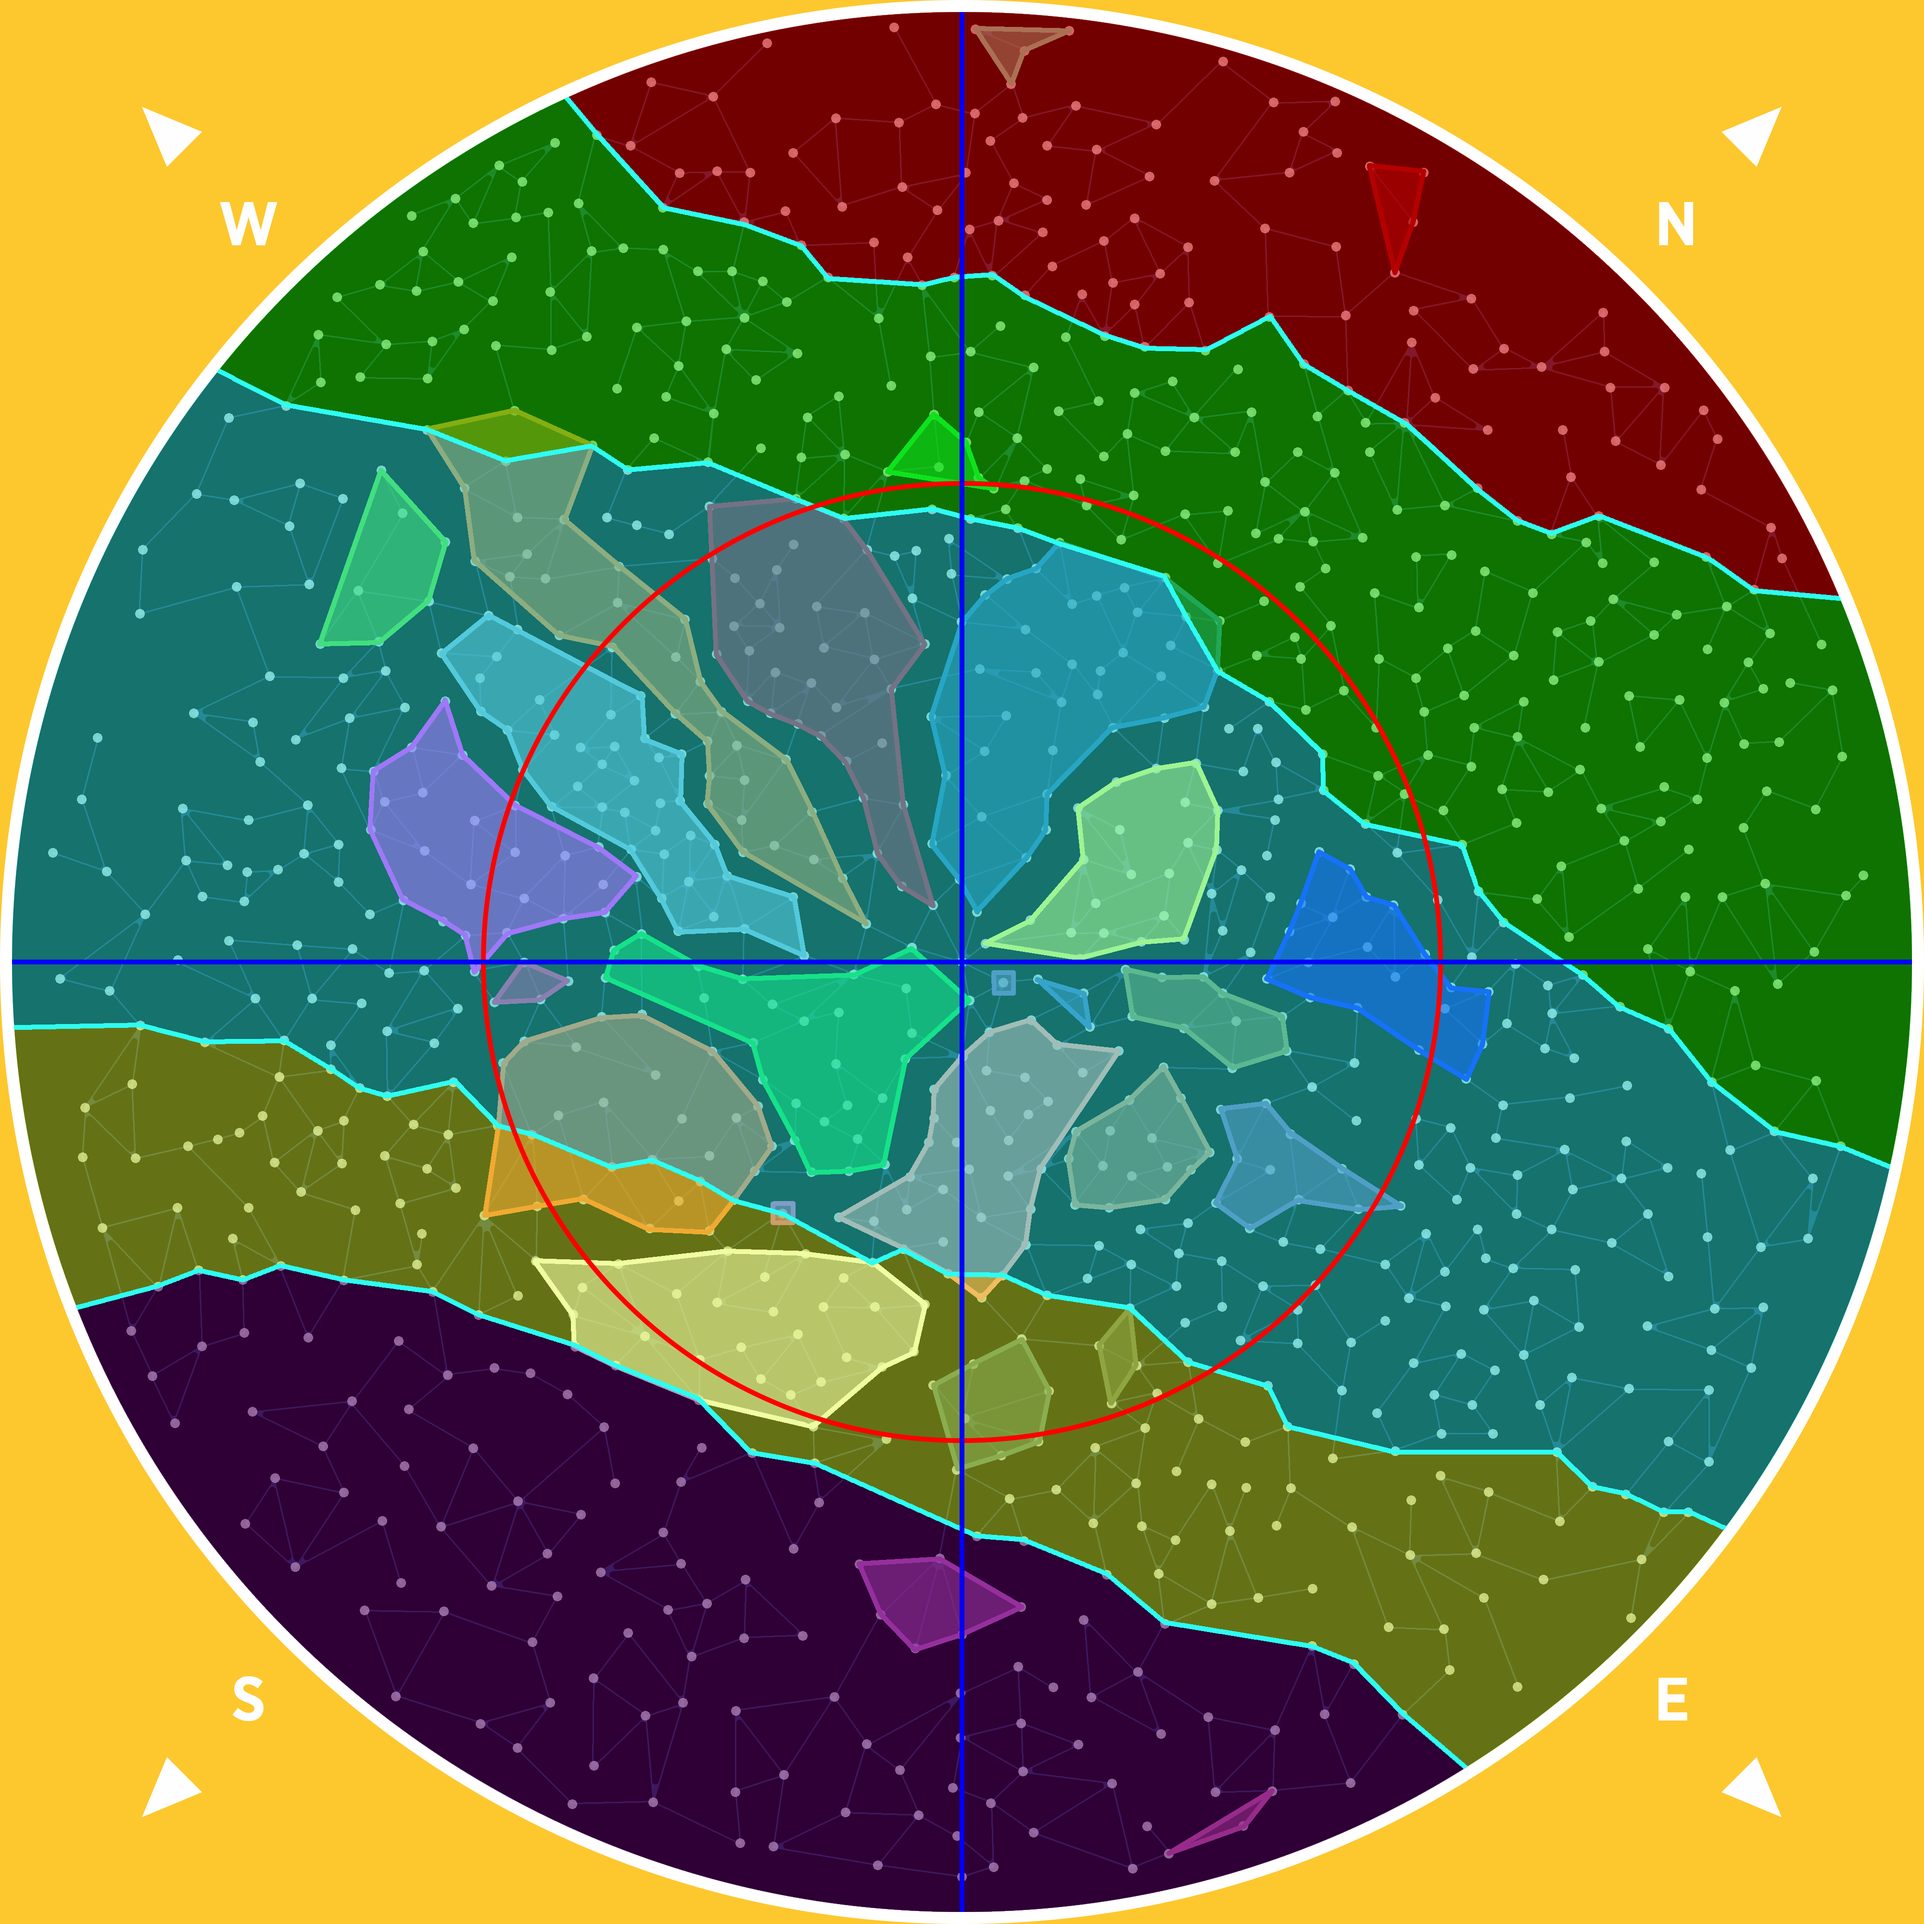
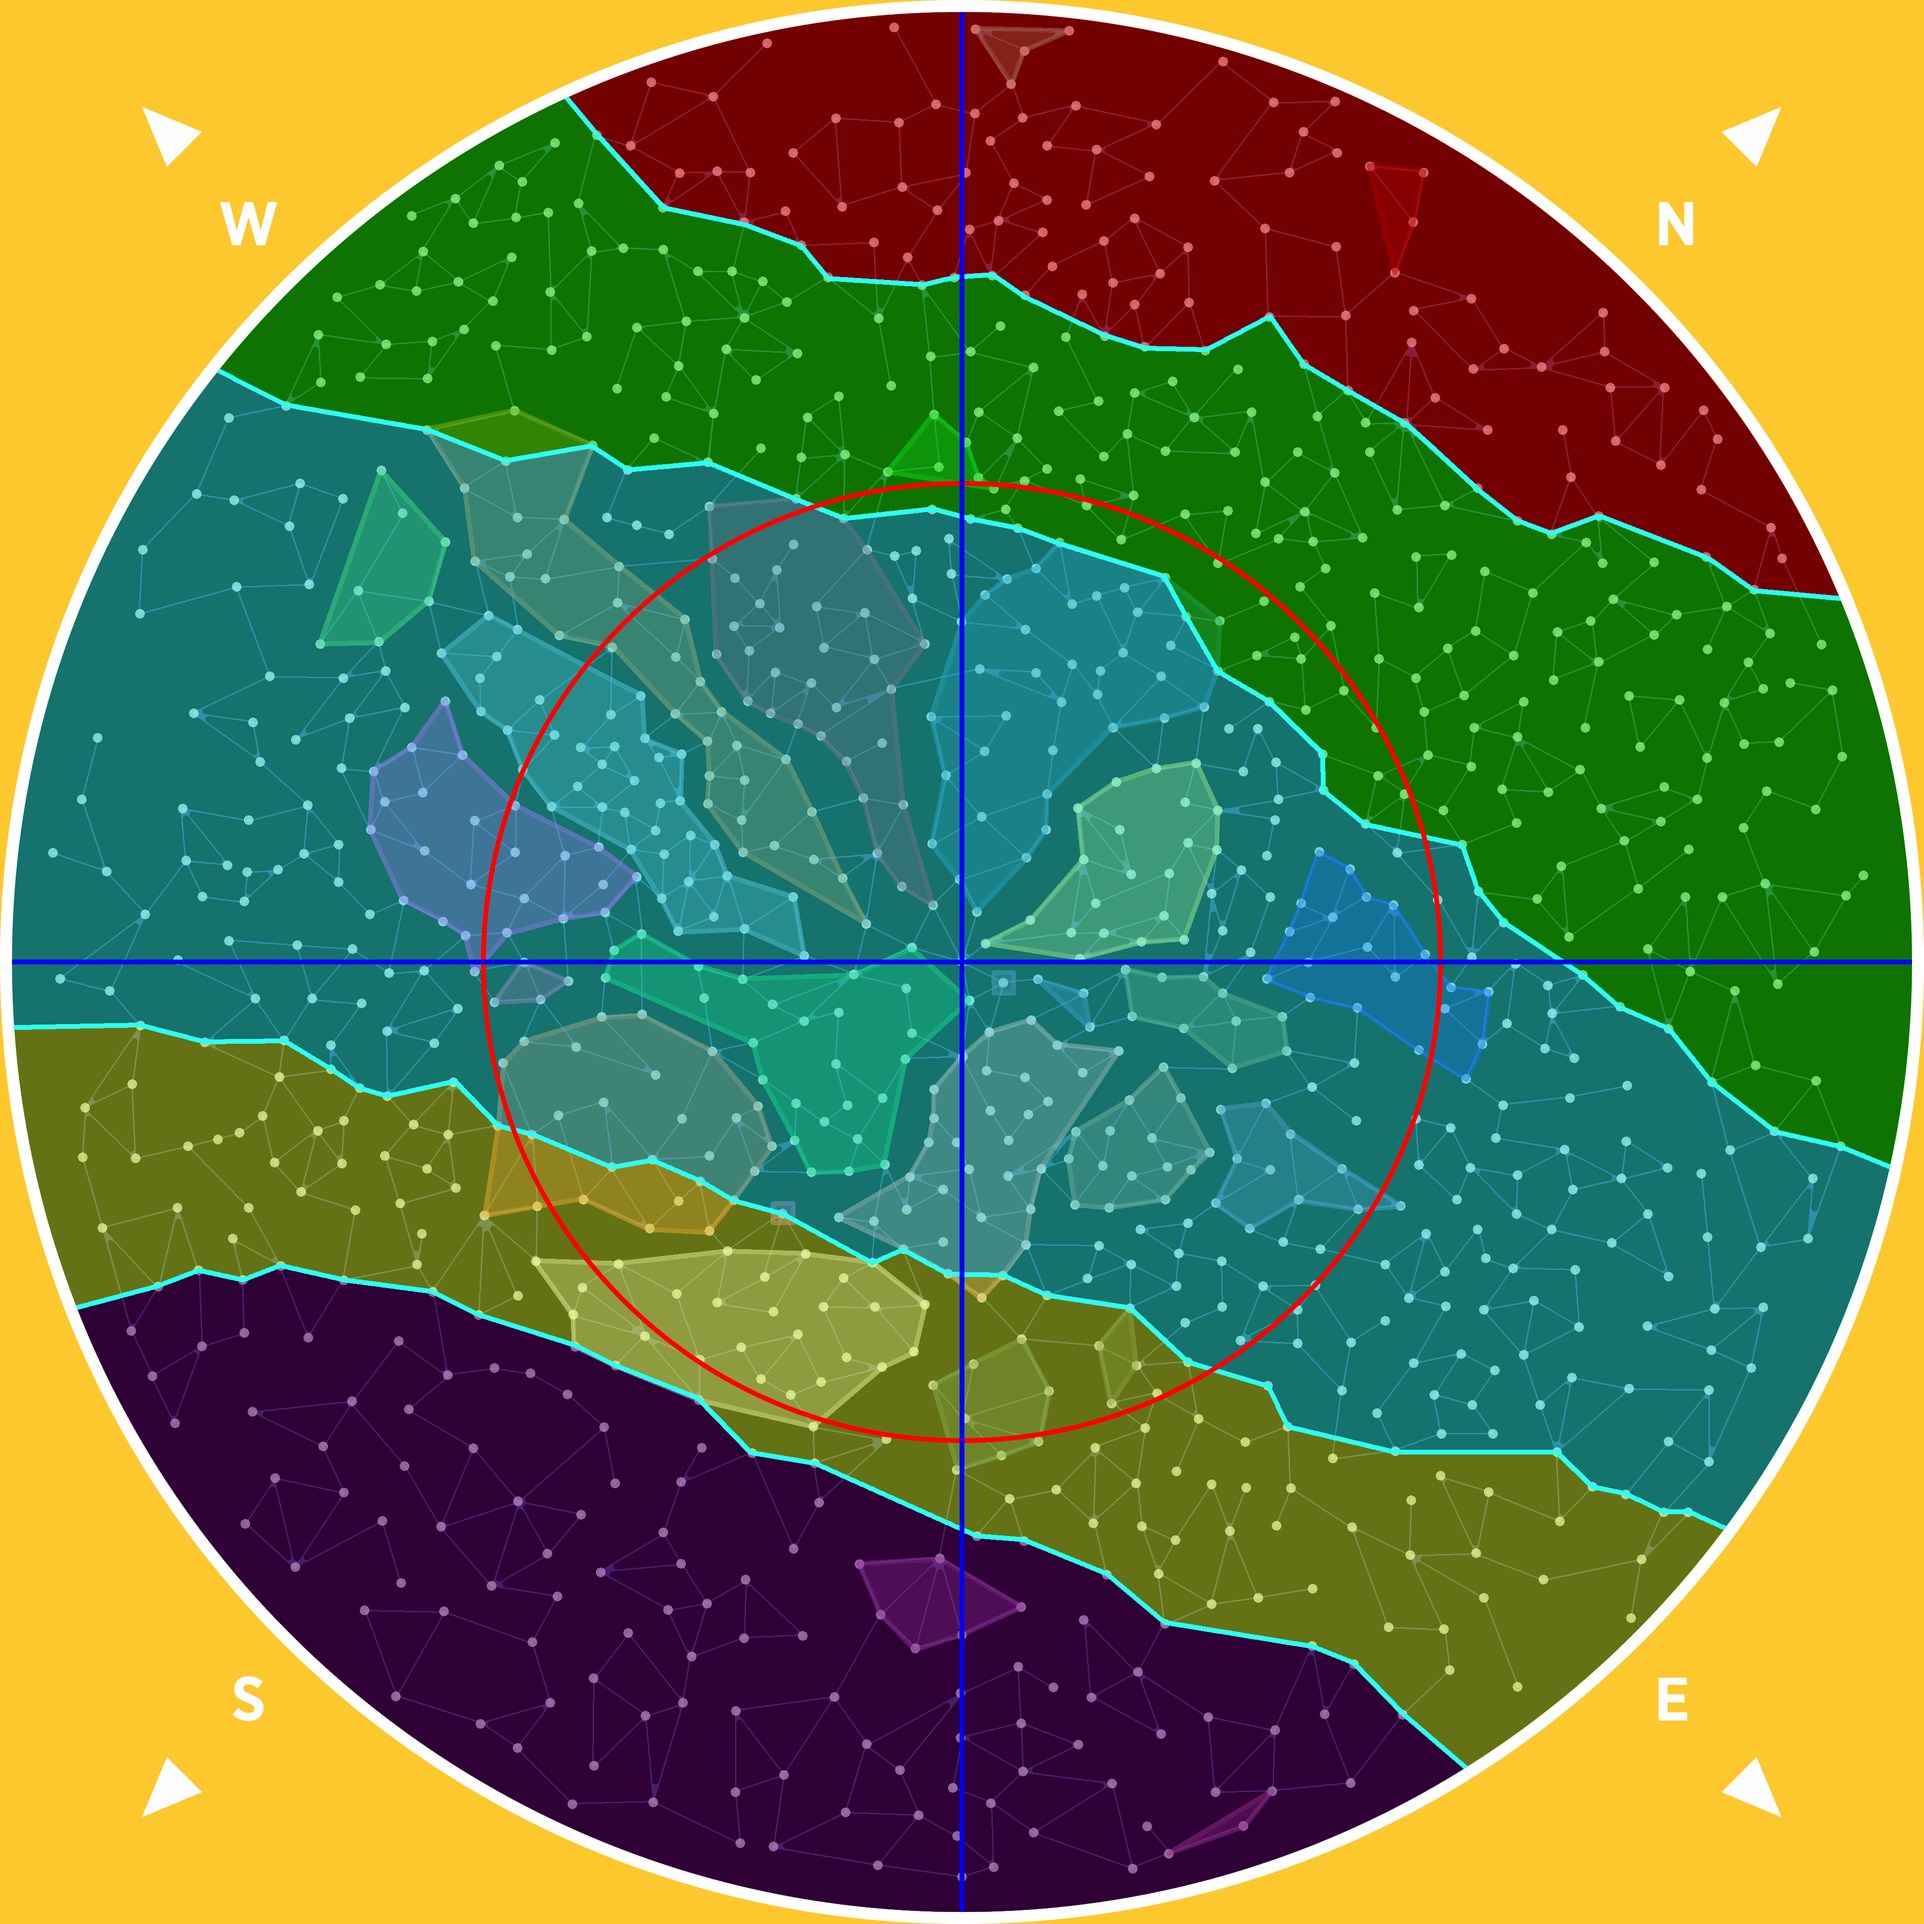
banter

diff --git a/index.html b/index.html
@@ -9,10 +9,10 @@
     window.dataLayer = window.dataLayer || [];
     function gtag(){dataLayer.push(arguments)};
     gtag('js', new Date());
-  
+
     gtag('config', 'UA-106544095-1');
   </script>
-      <link rel="prefetch" as="image" href="hyperlanegrid.png">
+      <link rel="prefetch" as="image" href="Region_Map.png">
     <link href="https://fonts.googleapis.com/css?family=Karla:400,400i,700,700i" rel="stylesheet">
     <link href="https://fonts.googleapis.com/css?family=Rubik:500,700" rel="stylesheet">
     <link rel="stylesheet" href="mapColor.css">
@@ -38,7 +38,7 @@
   	font-family:Rubik;
   	padding: 16px 18px;
 
-  
+
 }
 .buttonBehaviour {
   	overflow: hidden;
@@ -68,7 +68,7 @@
     float: left;
     font-size: 30px;
     color: #f5f5f5;
-      
+
     }
 .list {
   text-align: left;
@@ -114,10 +114,10 @@
     }
 }
 #regionheading {
-  font-size: 35px; 
+  font-size: 35px;
   color:#000000;
   font-weight: 900;
-  font-family: Rubik; 
+  font-family: Rubik;
   font-weight: 700;
 }
 
@@ -134,7 +134,7 @@
 
 </style>
 
-  
+
   <div id="EarthTab" class="tabcontent">
     <div id="earth">
       <img id="earthmap" src="Earth_Map.png" style="width: 100%;">
@@ -148,7 +148,7 @@
               <li><div class="box lopEarth"></div>Ivoria (LoP)</li>
               <li><div class="box pgfEarth"></div>Hellenica</li>
               <li><div class="box einheitEarth"></div>Tribal Artite</li>
-              <li><div class="box artcorp"></div>Artienia Corporation</li>             
+              <li><div class="box artcorp"></div>Artienia Corporation</li>
 
       </ul>
    </div>
@@ -164,7 +164,7 @@
       <h2 class="headings">OCEANIA</h2>
       <ul class="list">
               <li><div class="box wsEarth"></div>Suburbia-Purlieu</li>
-              <li><div class="box isariiEarth"></div>Isarii</li>              
+              <li><div class="box isariiEarth"></div>Isarii</li>
       </ul>
    </div>
    <div class="newHeadings">
@@ -210,32 +210,62 @@
     <div id="space">
       <img id="spaceMap">
     </div>
+
+    <div id="spaceSwitchButtonDiv" style="text-align: center; padding-top:3%;padding-bottom:5%;padding-left:0;padding-right:0;">
+      <a id="NationButton" style="font-size: 25px; font-weight: 800;" onclick="toggleBtnClickNation()" class="spaceSwitchButton">Nations</a><a id="RegionButton" style="font-size: 25px; font-weight: 800;" onclick="toggleBtnClickRegion()" class="spaceSwitchButton">Regions</a>
+    </div>
+
     <script>
       document.getElementById("spaceMap").src = "Space_Map.png";
-  
-      var clicked = false;
-      
-      function clickhyperlane() {
-            document.getElementById("hyperlaneButton").click();
-    }
-  
-      function toggleBtnClickhyperlane() {
-        var img = document.getElementById('spaceMap');
-        if (clicked) {
-          img.src = "Space_Map_H.png";
-          clicked = false;
-        } else {
-          img.src = "Space_Map.png";
-          clicked = true;
-        }
+
+      function toggleBtnClickNation() {
+        document.getElementById("spaceMap").src = "Space_Map.png";
       }
-      toggleBtnClickhyperlane()
-  
+
+      function toggleBtnClickRegion() {
+        document.getElementById("spaceMap").src = "Region_Map.png";
+      }
+      toggleBtnClickNation()
     </script>
-  
-    <div id="hyperlanebuttonDiv" style="text-align: center; padding-top:3%;padding-bottom:5%;">
-      <a style="font-size: 25px; font-weight: 800;" onclick="toggleBtnClickhyperlane()" id="hyperlaneButton">HYPERLANES</a>
-    </div>
+<style>
+.spaceSwitchButton.active {
+  background: #f5f5f5;
+  color: #000000;
+}
+.spaceSwitchButton:hover {
+  background: #f5f5f5;
+  color: #000000;
+}
+.spaceSwitchButton {
+  float: center;
+  border: none;
+  outline: none;
+  cursor: pointer;
+  padding: 18px 20px;
+  transition: 0.1s;
+  font-size: 30px;
+  color: #f5f5f5;
+  vertical-align: bottom;
+  font-family: Rubik;
+  font-weight:500;
+
+  background-color: #000000;
+  text-align: middle;
+  -webkit-animation: fadeEffect 0.5s;
+  animation: fadeEffect 0.5s;
+}
+.spaceSwitchButton.active {
+  background-color: #ffffff;
+}
+.spaceSwitchButtonDiv {
+  margin-top:1em;
+  margin-bottom:1em;
+}
+.spaceSwitchButton {
+  padding: 15px 17px;
+}
+</style>
+
 
 
   <div id="table" style="color: #000000;">
@@ -255,7 +285,7 @@
                 <li><div class="box stekSpace"></div>Stekarus</li>
                 <li><div class="box lopSpace"></div>The Rus</li>
                 <li><div class="box wsSpace"></div>Suburbia-Purlieu</li>
-                <li><div class="box childSpace"></div>Britannia</li>                
+                <li><div class="box childSpace"></div>Britannia</li>
         </ul>
      </div>
      <div class="newHeadings">
@@ -310,7 +340,7 @@
 </div>
 
 </div>
-    
+
 
  <style>
  .column {
@@ -380,8 +410,8 @@
         background-image: url(Space.png);
         background-image: url(EarthPlain.png);
         background-image: url(EarthDetailled.png);
-        background-image: url(hyperlanegrid.png);
-  
+        background-image: url(Region_Map.png);
+
     }
 
 
@@ -403,26 +433,26 @@
     .footer {
     	padding-left: 1cm;
     }
-    
+
     #SpaceTab {
       background: #fdc72e;
     }
-    
+
     #space {
       background: #fdc72e;
       text-align: center;
       padding-top: 1cm;
       image-rendering: smooth;
-      
+
     }
-   
-    
+
+
     #spaceLabels {
       background: #fdc72e;
       color: #f5f5f5;
       text-align: center;
       padding-top: 1cm;
-      
+
     }
     ul {
       margin: 1em 0;
@@ -431,15 +461,8 @@
     li {
       margin: 0.5em 0;
     }
-    
-    #hyperlaneButton.active {
-      background: #f5f5f5;
-      color: #000000;
-    }
-    #hyperlaneButton:hover {
-      background: #f5f5f5;
-      color: #000000;
-    }
+
+
     #AfricaButton:hover {
       background: #f5f5f5;
       color: #000000;
@@ -473,28 +496,11 @@
     }
 
 
-    #hyperlaneButton {
-      float: center;
-      border: none;
-      outline: none;
-      cursor: pointer;
-      padding: 18px 20px;
-      transition: 0.1s;
-      font-size: 30px;
-      color: #f5f5f5;
-      vertical-align: bottom;
-      font-family: Rubik;
-      font-weight:500;
-      
-      background-color: #000000;
-      text-align: middle;
-      -webkit-animation: fadeEffect 0.5s;
-      animation: fadeEffect 0.5s;
-    }
+
     #defaultOpen:hover {
       background-color: #014197;
     }
-    
+
     #spaceButton:hover {
       background-color: #ffd45b;
     }
@@ -532,9 +538,7 @@
       animation: fadeEffect 0.5s;
       vertical-align: middle;
     }
-    #hyperlaneButton.active {
-      background-color: #ffffff;
-    }
+
     @-webkit-keyframes fadeEffect {
       from {opacity: 0;}
       to {opacity: 1;}
@@ -579,13 +583,7 @@
 	#spaceList {
 		padding-left:5em;
 	}
-	#hyperlanebuttonDiv {
-		margin-top:1em;
-		margin-bottom:1em;
-	}
-	#hyperlaneButton {
-		padding: 15px 17px;
-	}
+
 
 	#spaceMap {
 		width: 95%;
@@ -623,7 +621,7 @@
 
 
 
-      
+
     function chBackcolor(color) {
      document.body.style.background = color;
   }
